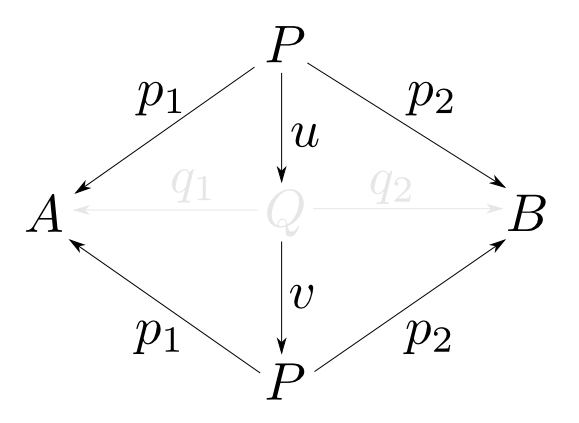
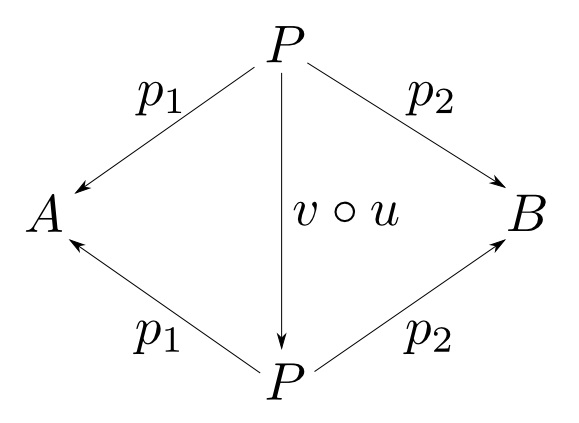
Update texts.

diff --git a/1.html b/1.html
@@ -1059,14 +1059,16 @@ double _Complex
         <section>
         <h3> 余積 </h3>
         <p> 双対圏における積(product)を元の圏における<span style="color:red">余積(coproduct)</span>と言います。</p>
-        <p> 一般に,双対圏における"xxx"を元の圏における"co-xxx"と呼びます。日本語では「余」を使います。</p>
+        <p> 一般に,双対な概念を表す場合に接頭辞"co-"を使います。日本語では「余」を使います。</p>
         </section>
 
         <section id="coproduct">
         <h3> 余積の定義</h3>
         <div class="definition">
         <p>
-        対象$Q$が対象$A$,$B$の積であるということは,射$q_1: A\rightarrow Q$, $q_2: B\rightarrow Q$が存在し,任意の対象$X$と射$f: A\rightarrow X$, $g: B\rightarrow X$に対して,以下の図式が可換となるような$u: Q\rightarrow X$が唯一つ存在する事である。
+        対象$A$,$B$の余積とは対象$Q$,射$q_1: A\rightarrow Q$，$q_2: B\rightarrow Q$からなり,
+        任意の対象$X$と任意の射$f: A\rightarrow X$, $g: B\rightarrow X$に対して，以下の図式が可換となるような
+        $u: Q\rightarrow X$が唯一つ存在するものである。
         </p>
         <div align="center"> <img src="fig/coproduct.png"> </div>
         </div>
@@ -1091,7 +1093,7 @@ double _Complex
           <li> $Q$は$A$,$B$を「貼りあわせた型」である。 </li>
           <li> $A$からは$\mathrm{left}$という関数で値を埋め込む。 </li>
           <li> $B$からは$\mathrm{right}$という関数で値を埋め込む。 </li>
-          <li> $u$は$\mathrm{left}$,$\mathrm{right}$のどちらで作られたかによって,$f$,$g$に値を「振り分ける」関数である。</li>
+          <li> $u$は$\mathrm{left}$,$\mathrm{right}$のどちらで作られたかによって$f$,$g$に値を「振り分ける」関数である。</li>
         </ul>
         <img src="fig/either2.png">
         </p>
@@ -1116,10 +1118,7 @@ data Shape = Circle { radius :: Double }
         <section>
         <h3> 同型を除いて一意 </h3>
         <p>
-        任意の圏$\mathbf{C}$の対象$A$,$B$についてその積が存在するなら,それらは全て同型である。このことを$A$,$B$の積は<span style="color:red">同型を除いて一意である(unique up to isomorphism)</span>という。
-        </p>
-        <p class="fragment">
-        また,$\mathbf{C}$での余積は$\mathbf{C^{\mathrm{op}}}$での積であるから余積も同型を除いて一意である。
+        任意の圏$\mathbf{C}$の対象$A$,$B$についてその積が存在するなら,それらは全て同型です。このことを$A$,$B$の積は<span style="color:red">同型を除いて一意である(unique up to isomorphism)</span>と言います。
         </p>
         </section>
 
@@ -1173,13 +1172,14 @@ data Shape = Circle { radius :: Double }
         </section>
 
         <section>
-        <h3> 積・余積の表記 </h3>
-        <p>
-        積・余積は複数存在しても全て同型なので,それらを区別する言葉・記号は特に必要有りませんから以下の様に表記できます。
+        <h3> 積の表記 </h3>
+        <p style="font-size:90%">
+        $A$,$B$の積は全て同型なので,特定の一つを指定しなくても様々な議論を矛盾なく進める事が出来ます。
+        そこで今後は下の表記を使います。
         </p>
         <div class="definition">
         <ul>
-          <li> $A$,$B$の任意の積を$A\times B$と表す。 </li>
+          <li> $A$,$B$の積を$A\times B$と表す。 </li>
           <li> $f$, $g$から一意に定まる$A\times B$への射を
           $ \langle f, g \rangle$
           と表す。</li>
@@ -1189,25 +1189,20 @@ data Shape = Circle { radius :: Double }
         </section>
 
         <section>
-        <h3> 積・余積の表記 </h3>
-        <p>
-        積・余積は複数存在しても全て同型なので,それらを区別する言葉・記号は特に必要有りませんから以下の様に表記できます。
+        <h3> 余積の表記 </h3>
+        <p style="font-size:90%">
+        余積は双対圏での積なので自動的に「余積も同型を除いて一意」である事が言えます。
+        従って積の場合と同様に下の表記を使う事が出来ます。
         </p>
         <div class="definition">
         <ul>
-          <li> $A$,$B$の任意の余積を$A + B$と表す。 </li>
+          <li> $A$,$B$の余積を$A + B$と表す。 </li>
           <li> $f$, $g$から一意に定まる$A+ B$からの射を
           $ [f, g] $
           と表す。</li>
         </ul>
         <div align="center"> <img height="45%" src="fig/coproduct2.png"> </div>
         </div>
-        </section>
-
-        <section>
-        <p>
-        今回紹介した積・余積のように圏論の言葉を使って定義される抽象的な構造には様々なものがあります。次回以降詳しく見ていきます。
-        </p>
         </section>
 
         <section>
